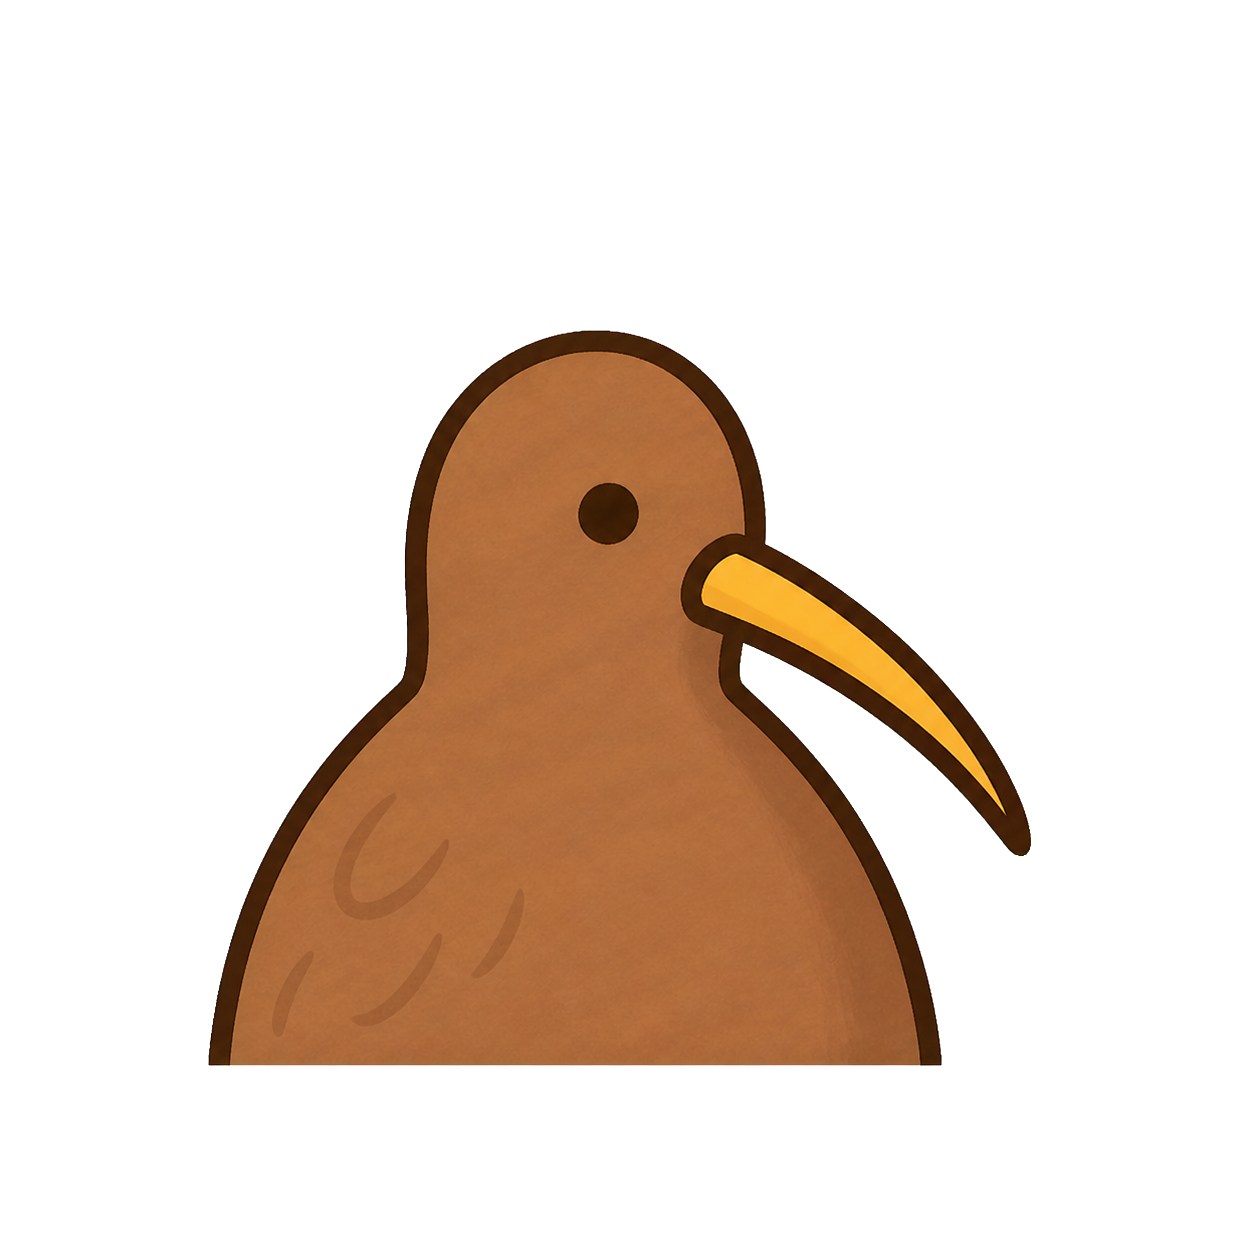
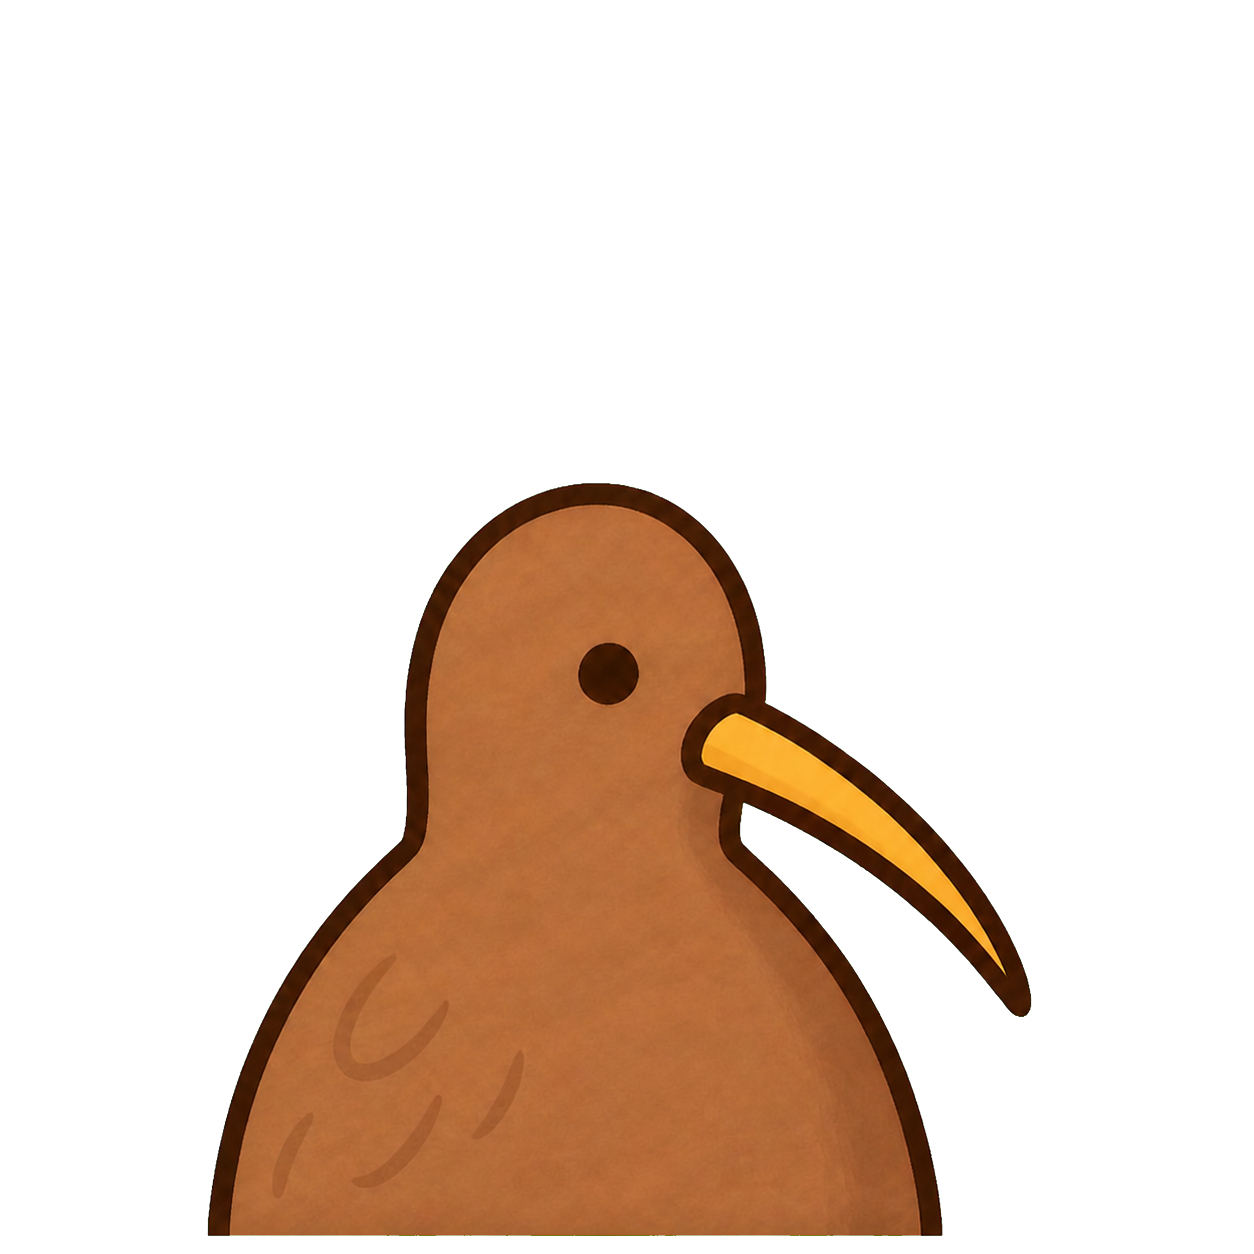
feat: switch the resume pointer effect to a spotlight
The glow tinted the page the cursor was over. The spotlight reveals only
the background grid through a mask, so nothing sits on top of the text.
The cursor trail survives as a hidden toggle on the rail wordmark — the
way back to the journey already lives at the foot of the document, so the
wordmark was free to become a button.

Contact's prompt line takes the `>` of the favicon and the guidelines
mark, and a kiwi now peeks out from under the title bar on
`command not found`, drawn behind the log so it never covers a line.

diff --git a/src/Resume.tsx b/src/Resume.tsx
@@ -14,9 +14,10 @@ import {
   type Lang,
 } from './resume-data'
 
-type GlowStyle = CSSProperties & { '--glow-x'?: string; '--glow-y'?: string }
+type PointerStyle = CSSProperties & { '--px'?: string; '--py'?: string }
 
 const STORAGE_KEY = 'whitekiwi-resume-lang'
+const TRAIL_LENGTH = 18
 
 function readLang(): Lang {
   try {
@@ -103,9 +104,12 @@ const NAV = [
 
 function Resume() {
   const [lang, setLang] = useState<Lang>('ko')
+  const [trail, setTrail] = useState(false)
   const scope = useReveal()
   const active = useActiveSection(NAV.map((item) => item.id))
   const stage = useRef<HTMLDivElement>(null)
+  const trailRef = useRef<HTMLDivElement>(null)
+  const pointer = useRef({ x: -9999, y: -9999 })
 
   useEffect(() => setLang(readLang()), [])
 
@@ -118,20 +122,43 @@ function Resume() {
     }
   }, [lang])
 
-  // 포인터 좌표만 커스텀 속성으로 넘기고 잔상은 CSS transition이 만든다.
+  // 좌표만 커스텀 속성으로 넘기고 배경 그리드를 드러내는 일은 CSS mask가 한다.
   useEffect(() => {
     const el = stage.current
     if (!el) return
 
     const onPointerMove = (event: PointerEvent) => {
       if (event.pointerType === 'touch') return
-      el.style.setProperty('--glow-x', `${event.clientX}px`)
-      el.style.setProperty('--glow-y', `${event.clientY}px`)
+      pointer.current = { x: event.clientX, y: event.clientY }
+      el.style.setProperty('--px', `${event.clientX}px`)
+      el.style.setProperty('--py', `${event.clientY}px`)
     }
 
     window.addEventListener('pointermove', onPointerMove, { passive: true })
     return () => window.removeEventListener('pointermove', onPointerMove)
   }, [])
+
+  // 워드마크로 켜는 숨은 트레일. 앞 점은 커서를, 뒤 점은 바로 앞 점을 쫓아 지연이 누적된다.
+  useEffect(() => {
+    if (!trail) return
+
+    const dots = Array.from(trailRef.current?.children ?? []) as HTMLElement[]
+    const path = dots.map(() => ({ ...pointer.current }))
+    let frame = 0
+
+    const tick = () => {
+      for (let i = 0; i < path.length; i += 1) {
+        const target = i === 0 ? pointer.current : path[i - 1]
+        path[i].x += (target.x - path[i].x) * .34
+        path[i].y += (target.y - path[i].y) * .34
+        dots[i].style.transform = `translate3d(${path[i].x}px, ${path[i].y}px, 0)`
+      }
+      frame = window.requestAnimationFrame(tick)
+    }
+
+    frame = window.requestAnimationFrame(tick)
+    return () => window.cancelAnimationFrame(frame)
+  }, [trail])
 
   const t = useCallback((entry: Record<Lang, string>) => entry[lang], [lang])
 
@@ -147,16 +174,28 @@ function Resume() {
     <div
       className="resume"
       ref={stage}
-      style={{ '--glow-x': '68vw', '--glow-y': '22vh' } as GlowStyle}
+      style={{ '--px': '68vw', '--py': '32vh' } as PointerStyle}
     >
-      <div className="resume-glow" aria-hidden="true" />
       <div className="resume-grid" aria-hidden="true" />
+      {trail && (
+        <div className="resume-trail" ref={trailRef} aria-hidden="true">
+          {Array.from({ length: TRAIL_LENGTH }, (_, i) => (
+            <i key={i} style={{ '--i': i, '--total': TRAIL_LENGTH } as CSSProperties} />
+          ))}
+        </div>
+      )}
 
       <aside className="resume-rail">
-        <a className="resume-rail-home" href="/">
+        {/* 숨은 토글이라 라벨로 설명하지 않는다. 메인 여정으로 가는 길은 하단에 따로 있다. */}
+        <button
+          type="button"
+          className={`resume-rail-home${trail ? ' is-on' : ''}`}
+          onClick={() => setTrail((current) => !current)}
+          aria-pressed={trail}
+        >
           <PromptMark />
           <span>whitekiwi</span>
-        </a>
+        </button>
 
         <nav aria-label={t(ui.resume)}>
           {NAV.map((item) => (

diff --git a/src/resume.css b/src/resume.css
@@ -4,8 +4,8 @@
   --canvas: #f4f0e7;
   --amber: #d89a1d;
   --rule: rgba(23, 23, 23, .13);
-  --glow-x: 68vw;
-  --glow-y: 22vh;
+  --px: 68vw;
+  --py: 32vh;
 
   position: relative;
   min-height: 100vh;
@@ -16,33 +16,34 @@
   isolation: isolate;
 }
 
-.resume-glow {
-  position: fixed;
-  z-index: -2;
-  top: var(--glow-y);
-  left: var(--glow-x);
-  width: min(58vw, 720px);
-  aspect-ratio: 1;
-  border-radius: 50%;
-  background: radial-gradient(circle, rgba(216, 154, 29, .17) 0, rgba(216, 154, 29, .05) 40%, transparent 72%);
-  filter: blur(46px);
-  transform: translate(-50%, -50%);
-  /* 본문 가독성이 우선이라 옅게 두고, 잔상이 길게 남도록 느리게 따라온다. */
-  transition: top 1.9s cubic-bezier(.16, 1, .3, 1), left 1.9s cubic-bezier(.16, 1, .3, 1);
-  pointer-events: none;
-}
-
+/* 본문 위에 아무것도 얹지 않고 배경 그리드만 커서 주변에서 드러낸다. */
 .resume-grid {
   position: fixed;
   z-index: -1;
   inset: 0;
-  opacity: .5;
+  opacity: .34;
   background-image:
-    linear-gradient(rgba(23, 23, 23, .045) 1px, transparent 1px),
-    linear-gradient(90deg, rgba(23, 23, 23, .045) 1px, transparent 1px);
-  background-size: 78px 78px;
-  mask-image: radial-gradient(circle at 50% 30%, #000 0, transparent 72%);
+    linear-gradient(rgba(23, 23, 23, .5) 1px, transparent 1px),
+    linear-gradient(90deg, rgba(23, 23, 23, .5) 1px, transparent 1px);
+  background-size: 62px 62px;
+  mask-image: radial-gradient(circle 250px at var(--px) var(--py), #000 0, rgba(0, 0, 0, .34) 46%, transparent 74%);
   pointer-events: none;
+}
+
+/* 워드마크로 켜는 숨은 트레일. */
+.resume-trail { position: fixed; z-index: 6; inset: 0; pointer-events: none; }
+
+.resume-trail i {
+  position: absolute;
+  top: 0;
+  left: 0;
+  width: calc(12px - var(--i) * .42px);
+  aspect-ratio: 1;
+  margin: calc((12px - var(--i) * .42px) / -2);
+  border-radius: 50%;
+  background: var(--amber);
+  opacity: calc((1 - var(--i) / var(--total)) * .46);
+  will-change: transform;
 }
 
 .resume-mark {
@@ -81,11 +82,19 @@
 
 .resume-rail-home {
   display: flex;
+  padding: 0;
   align-items: center;
   gap: 8px;
+  color: inherit;
+  border: 0;
+  background: transparent;
   font: 800 1.02rem Manrope, 'Pretendard Variable', Pretendard, sans-serif;
   letter-spacing: -.05em;
+  cursor: pointer;
+  justify-self: start;
 }
+
+.resume-rail-home.is-on span { color: var(--amber); }
 
 .resume-rail nav {
   display: flex;
@@ -518,7 +527,7 @@
 }
 
 @media (prefers-reduced-motion: reduce) {
-  .resume-glow { transition: none; }
+  .resume-trail { display: none; }
   .resume-mark i { animation: none; }
   [data-reveal='out'] { opacity: 1; transform: none; }
 }
@@ -531,8 +540,8 @@
   /* 진입 연출 상태를 되돌리지 않으면 아직 보지 않은 섹션이 빈 칸으로 인쇄된다. */
   [data-reveal] { opacity: 1 !important; transform: none !important; transition: none !important; }
 
-  .resume-glow,
   .resume-grid,
+  .resume-trail,
   .resume-rail,
   .resume-outro-link { display: none !important; }
 

diff --git a/src/ContactFinale.tsx b/src/ContactFinale.tsx
@@ -87,6 +87,7 @@ export default function ContactFinale({ active }: { active: boolean }) {
   const [bootCommand, setBootCommand] = useState('')
   const [bootReady, setBootReady] = useState(false)
   const [isStrolling, setIsStrolling] = useState(false)
+  const [peekKey, setPeekKey] = useState(0)
 
   const commandHistory = useMemo(() => entries.map((entry) => entry.command).filter(Boolean), [entries])
 
@@ -496,6 +497,8 @@ export default function ContactFinale({ active }: { active: boolean }) {
         { text: `zsh: command not found: ${command}`, tone: 'error' },
         { text: 'Type `help` to see the commands available here.', tone: 'muted' },
       ]
+      // 오답일 때만 키위가 위 경계로 빼꼼 올라온다. key를 바꿔 매번 다시 재생한다.
+      setPeekKey((current) => current + 1)
     }
 
     nextEntryIdRef.current += 1
@@ -555,7 +558,7 @@ export default function ContactFinale({ active }: { active: boolean }) {
 
         <div className="contact-finale-copy">
           {/* 문구 없이 프롬프트와 커서만 남긴 장식이다. 의미는 아래 헤드라인이 가진다. */}
-          <p className="contact-command" aria-hidden="true"><span>$</span><i /></p>
+          <p className="contact-command" aria-hidden="true"><span>&gt;</span><i /></p>
           <h2><span>LET&apos;S</span><strong>CONNECT.</strong></h2>
           <p>좋은 제품에 관한 흥미로운 이야기라면,<br />언제든 반갑습니다.</p>
         </div>
@@ -589,6 +592,12 @@ export default function ContactFinale({ active }: { active: boolean }) {
               </div>
             ))}
           </div>
+
+          {peekKey > 0 && (
+            <div className="contact-kiwi-peek" key={peekKey} aria-hidden="true">
+              <img src="/assets/characters/kiwi-peek.png" alt="" />
+            </div>
+          )}
 
           {isStrolling && (
             <div

diff --git a/src/contact-finale.css b/src/contact-finale.css
@@ -404,3 +404,34 @@
 
 @media (max-width: 720px) { .contact-kiwi-stroll { display: none; } }
 @media (prefers-reduced-motion: reduce) { .contact-kiwi-stroll { display: none; } }
+
+/* ── peek ─────────────────────────────────────────────── */
+/* `command not found`일 때만 상단 테두리 위로 빼꼼 올라왔다 내려간다. */
+
+.contact-kiwi-peek {
+  position: absolute;
+  /* 로그(z-index 2)보다 뒤에 둬서 글자를 가리지 않고 실루엣처럼 비친다. */
+  z-index: 1;
+  top: 42px;
+  left: 62%;
+  width: clamp(52px, 6.6vw, 82px);
+  overflow: hidden;
+  pointer-events: none;
+  animation: contact-kiwi-peek 2.7s cubic-bezier(.22, 1, .36, 1) forwards;
+}
+
+.contact-kiwi-peek img {
+  display: block;
+  width: 100%;
+  height: auto;
+  opacity: .62;
+}
+
+@keyframes contact-kiwi-peek {
+  0% { transform: translateY(100%); }
+  18%, 62% { transform: translateY(6%); }
+  100% { transform: translateY(100%); }
+}
+
+@media (max-width: 720px) { .contact-kiwi-peek { display: none; } }
+@media (prefers-reduced-motion: reduce) { .contact-kiwi-peek { display: none; } }

diff --git a/IMPLEMENTATION.md b/IMPLEMENTATION.md
@@ -87,6 +87,7 @@ pnpm build
 - Contact는 한 viewport 높이의 정적 stage로 바꾸고 스크롤 위치와 `--contact-progress` 계산을 분리한다. viewport에 충분히 진입하면 requestAnimationFrame 기반 ease-out 시퀀스로 약 1.9초 동안 progress를 0→1로 진행한다.
 - 07→Contact 하향 입력이 Toss 후반 임계 progress를 넘으려 하면 입력을 소비하고 Contact 시작점까지 약 650ms 동안 자동 스크롤한다. Contact 초입의 상향 입력은 같은 방식으로 07의 대표 progress로 돌아가며, 이동 중 추가 wheel·touch·스크롤 키를 잠근다.
 - 포인터 입력이 가능한 환경에서는 자동 조립과 별개로 배경의 앰버 글로우만 느리게 따라오게 한다.
+- 헤드라인 위의 프롬프트 줄은 문구 없이 `>`와 깜빡이는 커서만 둔다. 파비콘·Guidelines의 프롬프트 마크와 같은 기호다. 의미는 헤드라인이 가지므로 접근성 트리에서는 제외한다.
 - 터미널은 제어된 text input과 submit form으로 구현한다. 공개 명령은 `help`, `whoami`, `open github`, `open blog`, `open linkedin`, `open instagram`, `open email`, `clear`이며 `open instargram`은 사용자 입력 호환 alias로 처리한다.
 - 숨은 `iloveyou` 분기는 `I love you too` 한 줄을 반환하지만 공개 명령 배열에는 넣지 않아 help 출력과 shortcut 렌더에서 제외한다.
 - `cd`로 시작하는 입력은 `permission denied`, 그 밖의 미지원 입력은 `command not found` 결과를 추가한다. 명령과 출력은 시간순 entry로 렌더하고 `sessionStorage`에 저장하며 위·아래 화살표로 입력 명령 history를 탐색한다.
@@ -97,6 +98,7 @@ pnpm build
 - 터미널 아래에는 Introduction과 같은 순서의 Email·GitHub·Blog·LinkedIn·Instagram 실제 앵커를 두고, 재시작은 `/`로 이동해 오프닝을 처음부터 실행한다.
 - 하단에는 `RESUME`, `PORTFOLIO GUIDELINES`, `RUN AGAIN` 세 링크를 둔다. 각각 `/resume/`, `/guidelines/`, `/`로 이동하며 이것이 메인 여정의 유일한 진입점이다.
 - `whoami`는 neofetch처럼 아스키 키위를 왼쪽 고정 폭 열에, 정보를 오른쪽에 배치한다. 한글 전각 문자는 마지막 열에만 들어가 아스키 정렬을 흔들지 않는다.
+- `command not found`일 때만 키위가 타이틀 바 아래에서 빼꼼 올라왔다 내려간다. 로그보다 뒤에 그려 글자를 가리지 않는다. 같은 오답이 반복돼도 다시 재생되도록 key를 바꿔 다시 마운트한다.
 - 터미널이 준비된 뒤 일정 시간 입력이 없으면 키위 보행 스프라이트가 입력 줄 위 경계를 한 번 걸어 지나간다. 대기 시간은 개발 환경에서 10초, 배포에서 30초다. 입력·포인터 조작이 있으면 대기를 다시 시작하고, 모션 감소 환경과 좁은 화면에서는 실행하지 않는다.
 - 모바일에서는 헤드라인과 터미널을 세로로 재배치하고 히스토리 영역에 독립적인 세로 스크롤을 허용한다. 모션 감소 환경에서는 포인터 추적, 자동 타이핑 지연과 반복 커서 모션을 끈다.
 
@@ -114,7 +116,8 @@ pnpm build
 - `src/Resume.tsx`와 `src/resume.css`, 내용은 `src/resume-data.ts`에 한국어·영문을 같은 구조로 나란히 둔다. 컴포넌트는 언어 키만 바꿔 같은 레이아웃을 렌더한다.
 - 언어 상태는 `localStorage`에 저장하고 `<html lang>`을 함께 바꾼다. 초기 언어는 저장값이 없으면 한국어다.
 - 진입 연출은 `IntersectionObserver`로 섹션이 보일 때 한 번만 실행하고, 이후 상태를 되돌리지 않는다. 스크롤 progress로 계속 보간하지 않으므로 읽는 도중 문장이 다시 사라지지 않는다.
-- 포인터 반응은 Contact 피날레와 같은 방식으로 `--glow-x`, `--glow-y` 커스텀 속성만 갱신하고 CSS가 나머지를 처리한다. 좌표 갱신에 긴 easing transition을 걸어 잔상처럼 따라오게 한다. `pointerType === 'touch'`는 무시한다.
+- 포인터 반응은 본문 위에 무엇도 얹지 않는 스포트라이트 방식이다. `--px`, `--py` 커스텀 속성만 갱신하고 배경 그리드의 `mask-image`가 커서 주변만 드러낸다. `pointerType === 'touch'`는 무시하고 초기 좌표를 유지한다.
+- 좌측 상단 워드마크는 숨은 토글이다. 누르면 커서 트레일이 켜진다. 앞 점은 커서를, 뒤 점은 바로 앞 점을 쫓아 지연이 누적된다. 메인 여정으로 가는 링크는 문서 하단에 따로 있으므로 워드마크는 이동에 쓰지 않는다.
 - 좌측 타임라인 레일은 현재 보이는 회사에 표시를 옮긴다. 레일 자체는 인쇄에서 제거한다.
 - 경력 길이와 회사별 재직 기간, 상단 갱신 스탬프는 고정 문자열이 아니라 조회 시점에 계산한다. 총 경력은 회사 구간을 월 단위로 합집합해 세므로 공백기는 빠지고 겹치는 달은 한 번만 센다.
 - 경력·학력·수상은 모두 시간 역순으로 나열한다.

diff --git a/CONTEXT.md b/CONTEXT.md
@@ -210,7 +210,7 @@
 
 - 2026-08-09 사용자가 Contact에 키위를 티 나지 않게 넣을 아이디어를 요청했다. 터미널이라는 소재를 살리는 방향으로 정리했다.
 - 채택: `whoami`의 neofetch 스타일 아스키 키위, 그리고 유휴 상태의 키위 산책. 산책 대기 시간은 테스트 편의를 위해 개발 환경에서만 10초로 줄인다.
-- 2026-08-09 사용자 요청으로 `command not found`에 반응해 터미널 위 경계로 빼꼼 올라오는 별도 키위 자산을 생성하기로 했다. 기존 보행 스프라이트는 측면 전신이라 머리만 잘라 쓸 수 없으며, `public/assets/characters/PROMPTS.md`의 전용 프롬프트와 수평 하단 단면을 따른다.
+- 2026-08-09 사용자 요청으로 `command not found`에 반응해 터미널 위 경계로 빼꼼 올라오는 투명 PNG `public/assets/characters/kiwi-peek.png`를 생성했다. 기존 보행 스프라이트는 측면 전신이라 머리만 잘라 쓸 수 없으며, `public/assets/characters/PROMPTS.md`의 전용 프롬프트와 수평 하단 단면을 따른다. 사용자 확인 전까지 터미널 반응에는 적용하지 않는다.
 
 ## Repository history
 
